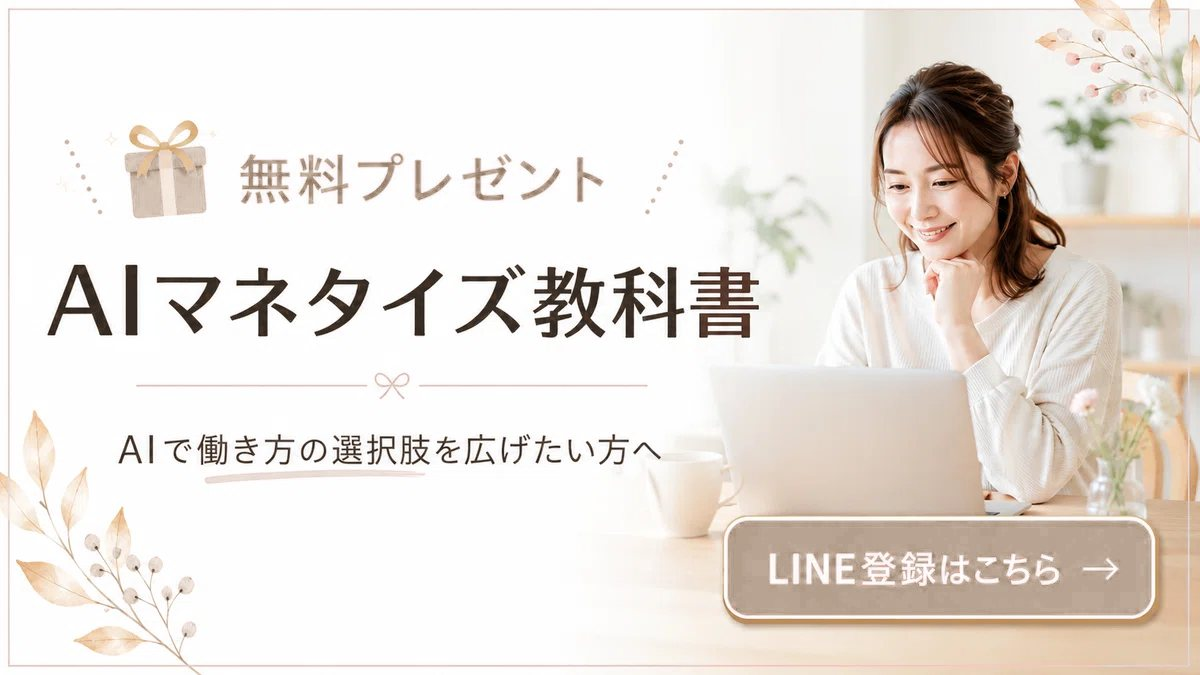
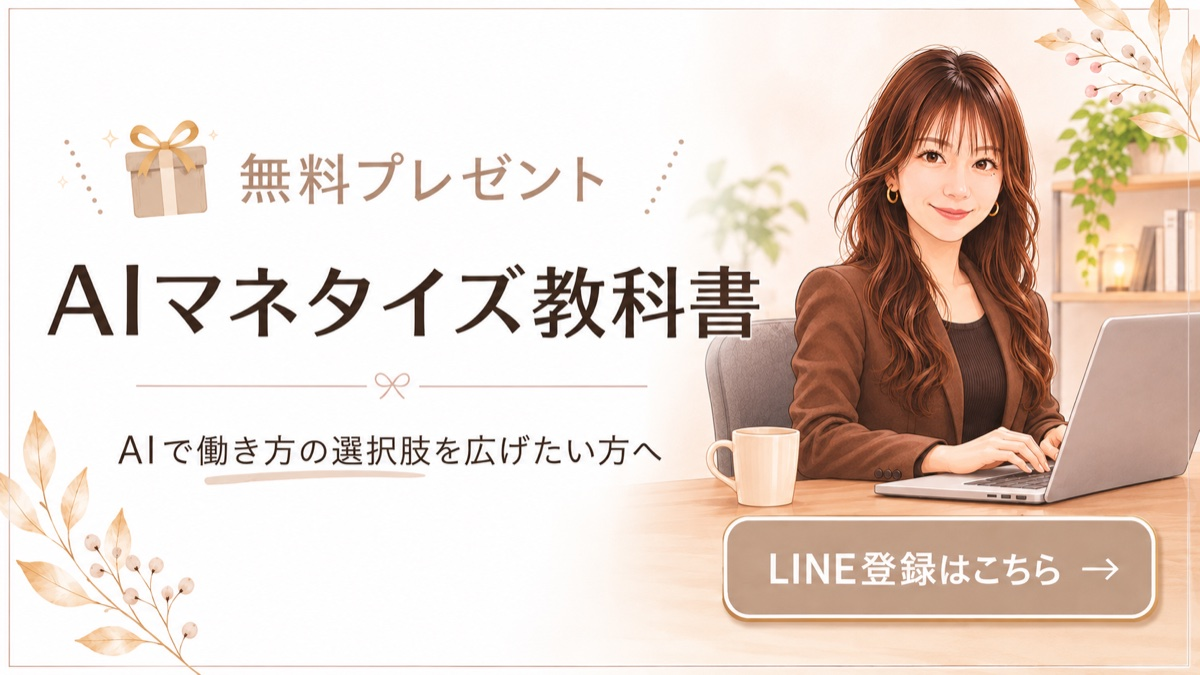
🕒 2026-11-17 18:43:04
LINE誘導をストーリー型に変更・バナーと5大特典画像を差し替え

diff --git a/js/line-cta.js b/js/line-cta.js
@@ -1,23 +1,29 @@
 /* LINE誘導の共通文章（全特典で共通。特典ごとに書き換えない）。
-   変更したいときはここ1か所だけを直す。特典ごとに変えるのは js/content.js の `lineIntro` だけ。
-   構成: ①つなぎ（content.js の lineIntro）→ ②体験談 → ③選択肢 → ④教科書のメリット → ⑤CTA */
+   変更したいときはここ1か所だけを直す。特典ごとに変えるのは js/content.js の `lineIntro`（直前のノウハウからのつなぎ）だけ。
+   構成: ①つなぎ（content.js の lineIntro）→ ②〜④ みおんのストーリー → ⑤教科書の紹介 → ⑥LINE登録ボタン → ⑦サポート会の案内
+   ストーリー本文は確定済み。原則そのまま使う（実績・体験の追加や変更をしない／「副業ジプシー」「40代」など読者の年齢を限定する言葉は使わない）。 */
 const LINE_CTA = {
-  // ② みおん自身の実体験（固定。毎回別のエピソードを作らない）
-  story: [
-    "実は私も、かつては副業ジプシーでした。",
-    "いろんな副業に挑戦して、学ぶためにお金も時間も使ってきましたが、なかなか思うような結果が出ませんでした。",
-    "いろんな副業を経験してきたからこそ思うのは、収入の作り方は本当にたくさんある、ということ。",
-    "だから、自分に合う方法を見つけることが大事だと思っています。",
-  ],
-
-  // ③ AIで広がる選択肢（固定。①と重ならないよう「今回紹介した方法も〜」は入れない）
-  options: {
-    lead: "AIを使えば、商品を作ることも、SNSを活用することも、仕事の幅を広げることもできます。",
-    questions: ["「ほかにはどんな方法があるの？」", "「自分には何が向いているんだろう？」"],
-    closing: "そんな人にこそ、知ってほしいことがあります。",
+  // ②〜④ みおん自身のストーリー（固定）。"<br>" は改行
+  story: {
+    heading: "ここで少し、私自身の話をさせてください。",
+    paras: [
+      "実は私も、これまでたくさんの副業に挑戦してきました。",
+      "学ぶために自己投資してきた金額は、累計約1,000万円。",
+      "でも、最初からうまくいったわけではありません。",
+      "なかなか思うような結果が出ず、たくさん遠回りもしてきました。",
+      "それでも挑戦を続けて、専業主婦だった私も月100万円を達成することができました。",
+      "私が伝えたいのは、AIの使い方だけじゃありません。",
+      "行きたい場所に行く。<br>欲しいものを買う。<br>やりたい仕事を選ぶ。<br>そして、休みたいときには休む。",
+      "お金や時間を理由に、自分のやりたいことを諦めてほしくないんです。",
+      "家族のことも大切。でも、自分の人生だって同じくらい大切。",
+      "だからこそ、自分で収入を作る力を身につけて、もっと自由に、自分の人生を楽しんでほしい。",
+      "そんな思いで発信しています。",
+      "もし今、<br>「何から始めたらいいか分からない」<br>「いろいろ挑戦したけれど、結果が出ない」<br>と感じているなら、まずは自分に合った方法を知ることから始めてみてください。",
+      "そのためのヒントを「AIマネタイズの教科書」にまとめています。",
+    ],
   },
 
-  // ④ LINE登録のメリット（実際の教科書の内容だけを書く）
+  // ⑤ LINE登録のメリット（実際の教科書の内容だけを書く）
   textbook: {
     heading: "LINEで『AIマネタイズの教科書』を<br>無料でプレゼント",
     lead: "自分に合う方法を探すための材料を、ひとつにまとめています。",
@@ -30,12 +36,12 @@ const LINE_CTA = {
     ],
   },
 
-  // ⑤ CTA（リンク先は content.js の lineUrl）
+  // ⑥ CTA（リンク先は content.js の lineUrl）
   buttonText: "無料でAIマネタイズの教科書を受け取る →",
   caution: "収入や収益が得られることを保証するものではありません。",
-  banner: "assets/images/cta-banner.jpg",
+  banner: "assets/images/cta-banner.jpg?v=2",
   bannerAlt: "無料プレゼント AIマネタイズ教科書。AIで働き方の選択肢を広げたい方へ。LINE登録はこちら",
-  // メインCTAはLINE登録に統一。サポート会は教科書の案内のあとに補足として添える
+  // ⑦ メインCTAはLINE登録に統一。サポート会は教科書の案内のあとに補足として添える
   support:
     "「何から始めたらいいのかわからない」「自分には何が向いているのか相談したい」という方に向けて、<strong>AI収益化サポート会</strong>も実施中です。個別でのご相談も、LINEから受け付けています。",
 };

diff --git a/js/script.js b/js/script.js
@@ -48,7 +48,7 @@
 
   function topCta(c, url) {
     const image = c.image
-      ? `<a class="cta-soft__image" href="${esc(url)}" target="_blank" rel="noopener"><img src="${esc(c.image.src)}" alt="${esc(c.image.alt)}" width="1855" height="848"></a>`
+      ? `<a class="cta-soft__image" href="${esc(url)}" target="_blank" rel="noopener"><img src="${esc(c.image.src)}" alt="${esc(c.image.alt)}" width="1600" height="809"></a>`
       : "";
     return `
     <section class="container" aria-labelledby="top-cta-title">
@@ -148,8 +148,7 @@
 
   // LINE誘導: ①つなぎ(content.js) → ②体験談 → ③選択肢 → ④教科書のメリット → ⑤CTA（②〜⑤は line-cta.js）
   function finalCta(intro, l, url) {
-    const paras = (arr) => arr.map((t) => `<p>${t}</p>`).join("");
-    const questions = l.options.questions.map((q) => `<li>${q}</li>`).join("");
+    const paras = l.story.paras.map((t) => `<p>${t}</p>`).join("");
     const items = l.textbook.items
       .map((it) => `<li class="line-guide__item"><strong>${it.name}</strong><span>${it.benefit}</span></li>`)
       .join("");
@@ -158,12 +157,8 @@
       <div class="container">
         <div class="line-guide">
           <p class="line-guide__intro">${intro}</p>
-          <div class="line-guide__story">${paras(l.story)}</div>
-          <div class="line-guide__options">
-            <p>${l.options.lead}</p>
-            <ul class="line-guide__questions">${questions}</ul>
-            <p>${l.options.closing}</p>
-          </div>
+          <h3 class="line-guide__title">${l.story.heading}</h3>
+          <div class="line-guide__story">${paras}</div>
         </div>
         <div class="cta-final">
           <h2 class="cta-final__title" id="final-cta-title">${l.textbook.heading}</h2>

diff --git a/css/style.css b/css/style.css
@@ -135,13 +135,12 @@ a:focus-visible, button:focus-visible {
 }
 .cta-final p { margin-bottom: 24px; text-align: left; }
 
-/* ---------- LINE誘導（つなぎ→体験談→選択肢。本編より目立たせない） ---------- */
+/* ---------- LINE誘導（つなぎ→ストーリー→教科書。本編より目立たせない） ---------- */
 .line-guide { margin-bottom: 32px; }
 .line-guide p { margin: 0 0 14px; }
 .line-guide__intro { font-family: var(--font-serif); font-size: 17px; line-height: 1.85; color: var(--c-ink); }
-.line-guide__story { margin: 24px 0; padding-left: 16px; border-left: 3px solid var(--c-greige); }
-.line-guide__questions { list-style: none; margin: 0 0 14px; padding: 0; }
-.line-guide__questions li { margin: 0 0 6px; padding: 10px 14px; background: var(--c-point); border-radius: var(--radius-s); }
+.line-guide__title { margin: 28px 0 16px; font-family: var(--font-serif); font-size: 19px; line-height: 1.6; color: var(--c-ink); }
+.line-guide__story { margin: 0 0 24px; padding-left: 16px; border-left: 3px solid var(--c-greige); }
 .line-guide__items { list-style: none; margin: 0 0 24px; padding: 0; text-align: left; }
 .line-guide__item { padding: 10px 0; border-bottom: 1px solid var(--c-line); }
 .line-guide__item:last-child { border-bottom: 0; }

diff --git a/js/content.js b/js/content.js
@@ -37,7 +37,7 @@ const CONTENT = {
     text: "AIを使って、自分の働き方の選択肢を広げたい方に、無料で学べる情報をお届けしています。",
     buttonText: "無料で受け取る →",
     image: {
-      src: "assets/images/textbook-benefits.jpg",
+      src: "assets/images/textbook-benefits.jpg?v=2",
       alt: "AIマネタイズの教科書 5大特典。1 いま一番始めやすいAIマネタイズ手法、2 ChatGPT収益化プロンプト3選、3 AIマネタイズ神テンプレート、4 マネタイズのための生成AIツール3選、5 AI×SNSで収益を生むリアル事例",
     },
   },
@@ -248,7 +248,7 @@ const CONTENT = {
   },
 
   // SECTION 06：LINE誘導のつなぎ（①）。②〜⑤は js/line-cta.js の共通文章
-  lineIntro: "今回紹介したデジタルペーパーは、AIを使って収入を作る方法のひとつ。でも、AIでできることは、これだけではありません。",
+  lineIntro: "今回紹介したデジタルペーパーは、AIを使って収入を作る方法のひとつです。",
 
   footer: {
     copyright: "© MION",
